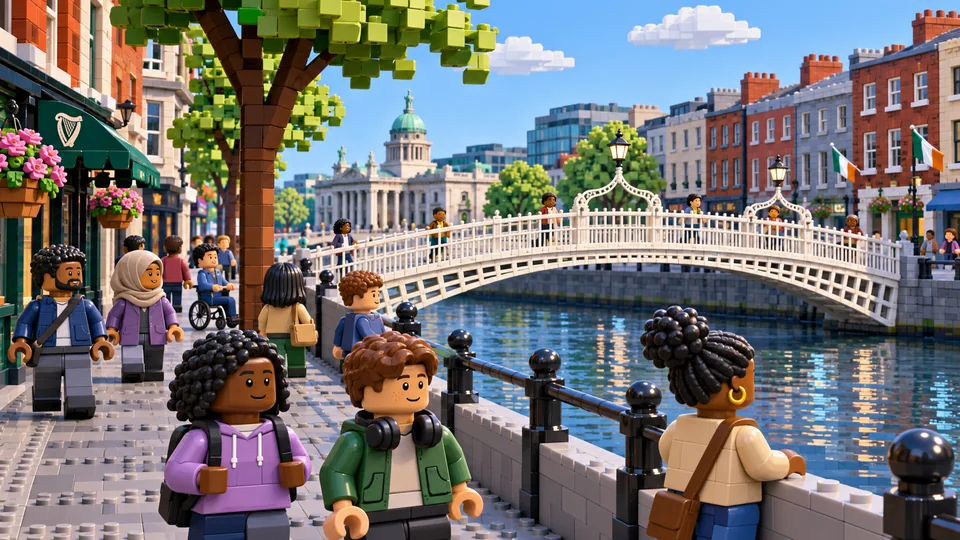
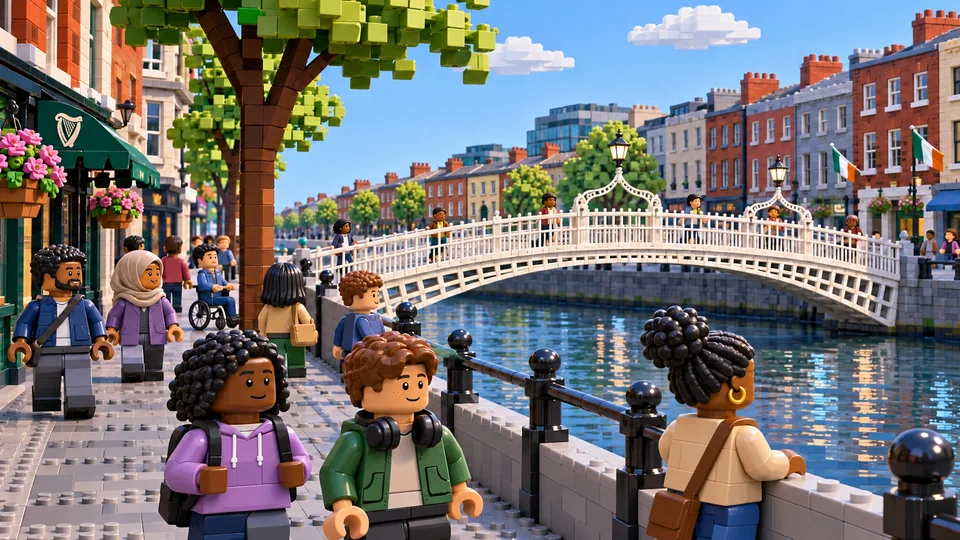
Correct Dublin geography in the homepage and encounter illustrations
Show the GPO's six Ionic columns and the Spire's street-level base. Correct the Liffey skylines and left-hand traffic, including the route 14 display and Churchtown stop number. Align the bus-stop cast with the revised pavement and record the responsive artwork sources.

diff --git a/assets/brand/approved-backgrounds.css b/assets/brand/approved-backgrounds.css
@@ -8,8 +8,8 @@
 .scene-location[data-approved-art]>.scene-actor{bottom:6%;width:28%;left:auto;right:auto}
 .scene-location[data-approved-art="suburban-street"]>.scene-actor--public{left:20%}
 .scene-location[data-approved-art="suburban-street"]>.scene-actor--garda{left:36%}
-.scene-location[data-approved-art="bus-stop"]>.scene-actor--public{left:10%}
-.scene-location[data-approved-art="bus-stop"]>.scene-actor--garda{left:28%}
+.scene-location[data-approved-art="bus-stop"]>.scene-actor--public{left:44%}
+.scene-location[data-approved-art="bus-stop"]>.scene-actor--garda{left:62%}
 .scene-location[data-approved-art="quayside"]>.scene-actor--public{left:24%}
 .scene-location[data-approved-art="quayside"]>.scene-actor--garda{left:42%}
 /* Mixed reflections retain both locations without portrait crops. */
@@ -19,5 +19,5 @@
 @media(forced-colors:active){.scene-location[data-approved-art]{border:1px solid CanvasText}}
 @media print{.scene-location[data-approved-art]{break-inside:avoid}}
 /* The invitation and perspective cards each show a different approved scene. */
-.play-invitation {--invitation-art:url('../dublin-approved/quayside-960.webp')}
-html[data-perspective="garda"] .play-invitation {--invitation-art:url('../dublin-approved/suburban-street-960.webp')}
+.play-invitation {--invitation-art:url('../dublin-approved/quayside-960.webp?v=dublin-accuracy-1')}
+html[data-perspective="garda"] .play-invitation {--invitation-art:url('../dublin-approved/suburban-street-960.webp?v=dublin-accuracy-1')}

diff --git a/garda/index.html b/garda/index.html
@@ -13,7 +13,7 @@
 <link rel="stylesheet" href="../accessibility/styles.css">
 <link rel="stylesheet" href="../accessibility/perspectives.css">
 <link rel="stylesheet" href="../accessibility/responsive.css">
-<script type="module" src="./app.mjs?v=encounter-hero-1"></script>
+<script type="module" src="./app.mjs?v=dublin-accuracy-1"></script>
 <link rel="stylesheet" href="../assets/brand/landing.css?v=landing-about-copy-1">
 <link rel="stylesheet" href="../assets/brand/buttons.css?v=learning-flow-2">
 <link rel="stylesheet" href="../encounters/refinements.css?v=scene-above-context-1">
@@ -27,7 +27,7 @@
 <link rel="stylesheet" href="../learning/support.css?v=organisation-logos-1">
 <link rel="stylesheet" href="../assets/brand/uimproved.css?v=footer-layout-20261115">
 <script type="module" src="../assets/brand/uimproved.mjs?v=1"></script>
-<link rel="stylesheet" href="../assets/brand/approved-backgrounds.css?v=visual-refresh-1">
+<link rel="stylesheet" href="../assets/brand/approved-backgrounds.css?v=dublin-accuracy-1">
 <link rel="stylesheet" href="../encounters/scene-labels.css?v=situation-images-2">
 <link rel="stylesheet" href="../encounters/turn-headshot.css?v=phlow-1">
 <link rel="stylesheet" href="../assets/brand/site-polish.css?v=situation-images-1">

diff --git a/index.html b/index.html
@@ -13,7 +13,7 @@
 <link rel="stylesheet" href="./accessibility/styles.css">
 <link rel="stylesheet" href="./accessibility/perspectives.css">
 <link rel="stylesheet" href="./accessibility/responsive.css">
-<script type="module" src="./app.mjs?v=encounter-hero-1"></script>
+<script type="module" src="./app.mjs?v=dublin-accuracy-1"></script>
 <link rel="stylesheet" href="./assets/brand/landing.css?v=landing-about-copy-1">
 <link rel="stylesheet" href="./assets/brand/buttons.css?v=learning-flow-2">
 <link rel="stylesheet" href="./encounters/refinements.css?v=scene-above-context-1">
@@ -27,7 +27,7 @@
 <link rel="stylesheet" href="./learning/support.css?v=organisation-logos-1">
 <link rel="stylesheet" href="./assets/brand/uimproved.css?v=footer-layout-20261115">
 <script type="module" src="./assets/brand/uimproved.mjs?v=1"></script>
-<link rel="stylesheet" href="./assets/brand/approved-backgrounds.css?v=visual-refresh-1">
+<link rel="stylesheet" href="./assets/brand/approved-backgrounds.css?v=dublin-accuracy-1">
 <link rel="stylesheet" href="./encounters/scene-labels.css?v=situation-images-2">
 <link rel="stylesheet" href="./encounters/turn-headshot.css?v=phlow-1">
 <link rel="stylesheet" href="./assets/brand/site-polish.css?v=situation-images-1">

diff --git a/docs/APPROVED-DUBLIN-BACKGROUNDS.md b/docs/APPROVED-DUBLIN-BACKGROUNDS.md
@@ -1,17 +1,18 @@
-# Approved Dublin background integration
+# Dublin background artwork
 
-Branch: `uimproved`. The production `main` branch is not changed.
+`phlowing` uses the Option 2 illustration on both homepages. The outdoor encounter backgrounds also supply the card previews for topics, shared situations and single-role practice.
 
-| Approved image | Placement |
-| --- | --- |
-| GPO and Spire crowd | Garda landing choice |
-| River Liffey and Ha'penny Bridge | Public landing choice |
-| Suburban bus shelter | Bus-stop encounters |
-| Suburban terraced street | Street encounters |
-| Quayside cafe and promenade | Community encounters |
+| Illustration | Placement | Geographic details |
+| --- | --- | --- |
+| Option 2 GPO encounter | Both homepages, `assets/heroes/garda-*.webp` | The GPO has six Ionic columns. The Spire stands on the O’Connell Street centre island across the road, with its base visible. Straight-arm streetlights replace the ornate lamps. [National Inventory of Architectural Heritage](https://www.buildingsofireland.ie/buildings-search/building/50010528/general-post-office-gpo-oconnell-street-lower-princes-street-north-henry-street-dublin-1-dublin-city) · [Visit Dublin](https://www.visitdublin.com/the-spire) · [Dublin City Film Office](https://www.dublincityfilmoffice.ie/filming-location/oconnell-street-sraid-ui-chonaill/) |
+| Suburban bus shelter | Bus-stop encounters, `bus-stop-*.webp` | The left-side doors face the waiting pavement. The bus shows route 14 to Dundrum Luas and the pole shows stop 1047, Beaumont Avenue in Churchtown. The shelter and surrounding houses are illustrative. [Transport for Ireland stop 1047](https://journeyplanner-production.transportforireland.ie/departures?stopId=8250DB001047&wrapper=false) |
+| Quayside café | Community encounters, `quayside-*.webp` | O’Connell Bridge retains its three stone arches, limestone balustrade and triple lamps. The near skyline shows quay buildings. The Custom House sits farther downstream on the north quay, outside the illustrated view. [National Inventory of Architectural Heritage](https://www.buildingsofireland.ie/buildings-search/building/50060552/oconnell-bridge-dublin-1-dublin) · [Dublin City Centre Transport Plan](https://www.dublincity.ie/sites/default/files/2024-04/09-dublin-city-centre-transport-plan-public-realm-technical-note.pdf) |
+| Suburban terraced street | Street encounters, `suburban-street-*.webp` | Traffic approaches to the right of the centre line in this view and recedes to its left, following Irish left-hand traffic. The street is fictional. [Road Safety Authority](https://www.rsa.ie/road-safety/road-users/tourists) |
+| GPO and Spire crowd | Earlier Garda homepage card, `gpo-city-*.webp` | Six Ionic columns and the separate centre-island Spire base. [National Inventory of Architectural Heritage](https://www.buildingsofireland.ie/buildings-search/building/50010528/general-post-office-gpo-oconnell-street-lower-princes-street-north-henry-street-dublin-1-dublin-city) · [Visit Dublin](https://www.visitdublin.com/the-spire) |
+| Ha’penny Bridge | Earlier public homepage card, `liffey-bridge-*.webp` | The white cast-iron footbridge spans the Liffey in a single shallow arch. The eastward skyline shows the receding quays. [Dublin City Film Office](https://dublincityfilmoffice.ie/filming-location/hapenny-bridge/) |
 
-The five originals were explicitly selected in the conversation. Their decoded RGB SHA-256 hashes and output hashes are recorded in `assets/dublin-approved/manifest.json`. Only resizing and WebP compression are applied; people, clothing and skin tones are not regenerated or recoloured. These are Dublin-inspired illustrations, not verified geographic reconstructions or factual transport diagrams.
+The station reception, advice room and community meeting room are fictional interiors. The ten older outdoor illustrations are design references.
 
-All production images are local files in three responsive widths (480, 960, 1600). There is no runtime request to Google, Canva or an external image host. Full landscape compositions avoid cropping people or placing text on faces. Outdoor selectable characters use per-setting pavement anchors; their identities, selection controls, states and scores are unchanged. Mixed-location reflections stack on narrow screens. Indoor images and pure indoor compositions remain unchanged.
+Each illustration uses one 16:9 composition in local WebP files at 480, 960 and 1600 pixels wide. The bus-stop character positions follow the right-side pavement in previews, decision scenes and split reflections. Split scenes stack on narrow screens.
 
-Validation: source pixel hashes; local-file and responsive-image unit checks; existing game tests; browser image loading, dimensions, pavement bounds and role-switch preservation. Browser screenshots accompany the integration workflow for visual inspection.
+`assets/dublin-approved/manifest.json` records the original approved source and the dimensions and RGB hash of each revised source. It also records the byte count and SHA-256 hash of each responsive export. The checks verify those files, browser image loading and dimensions, character positions and perspective switching.
